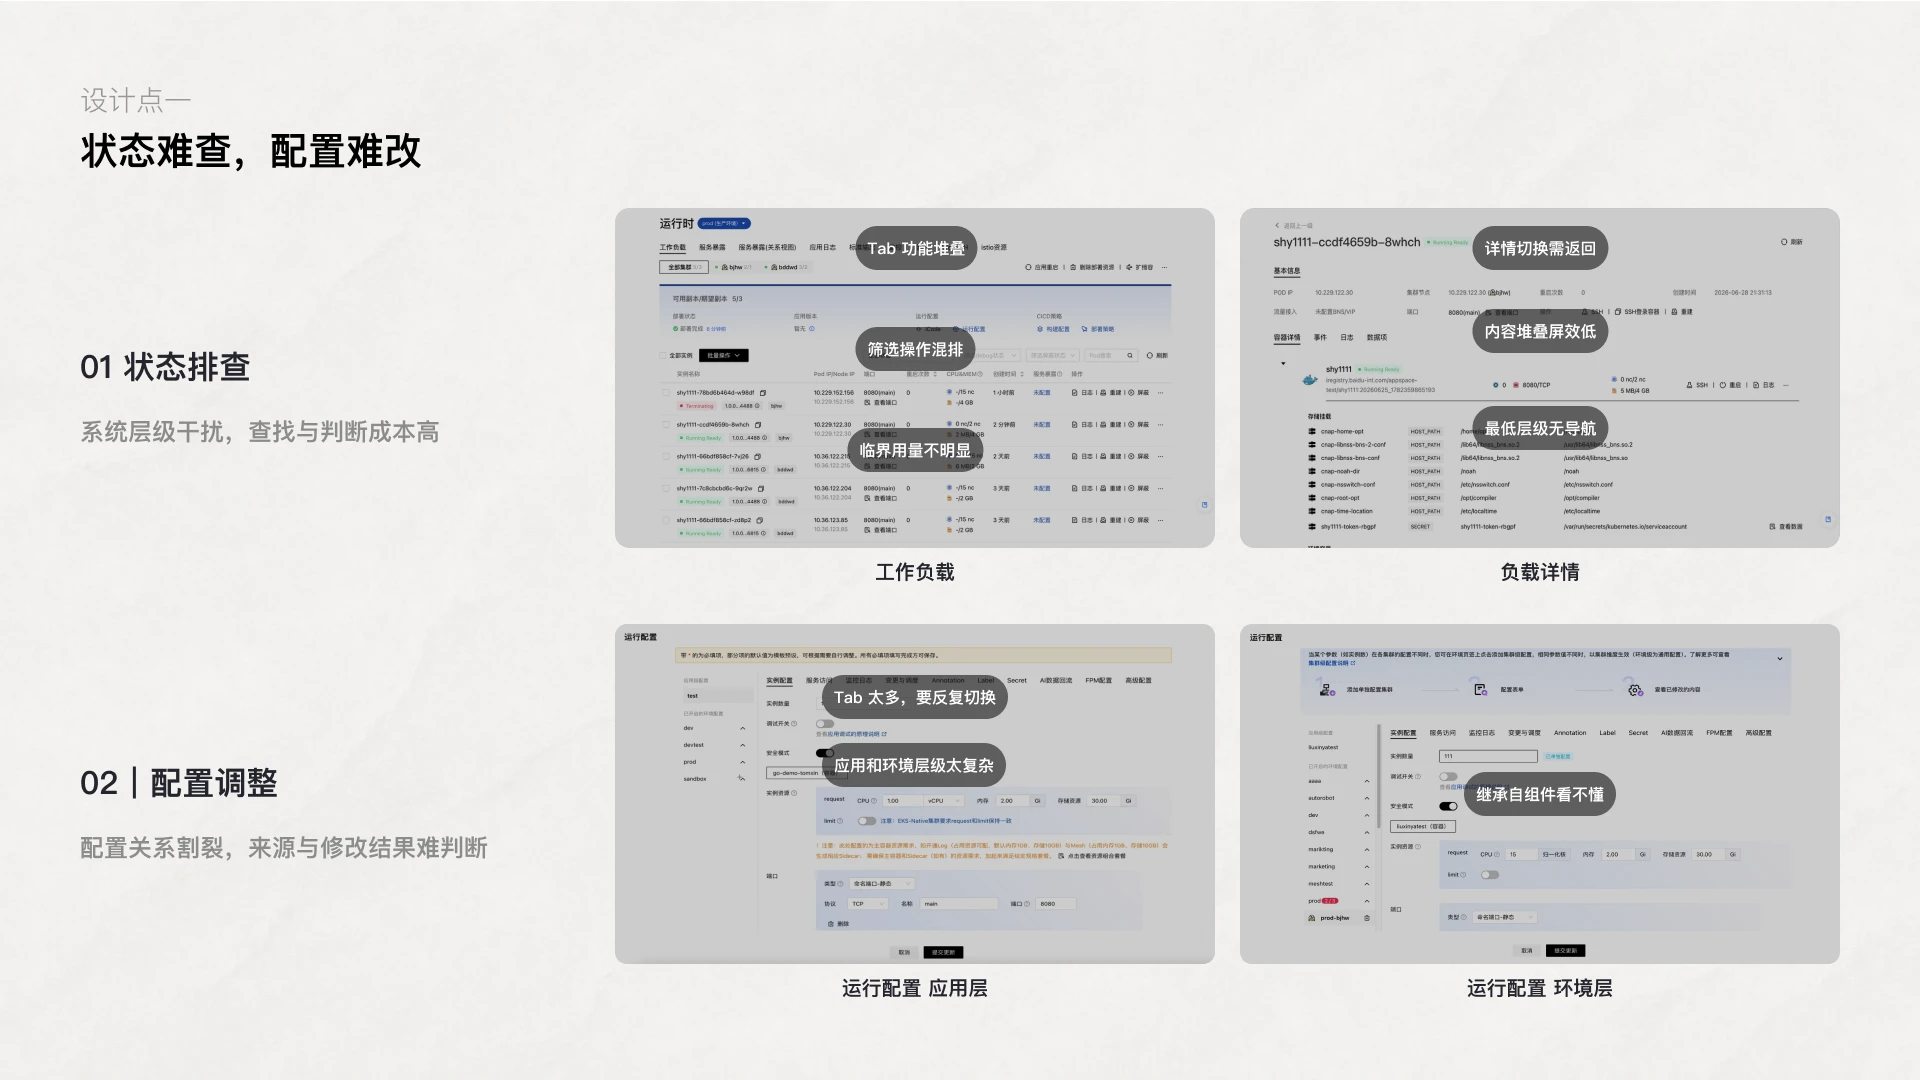
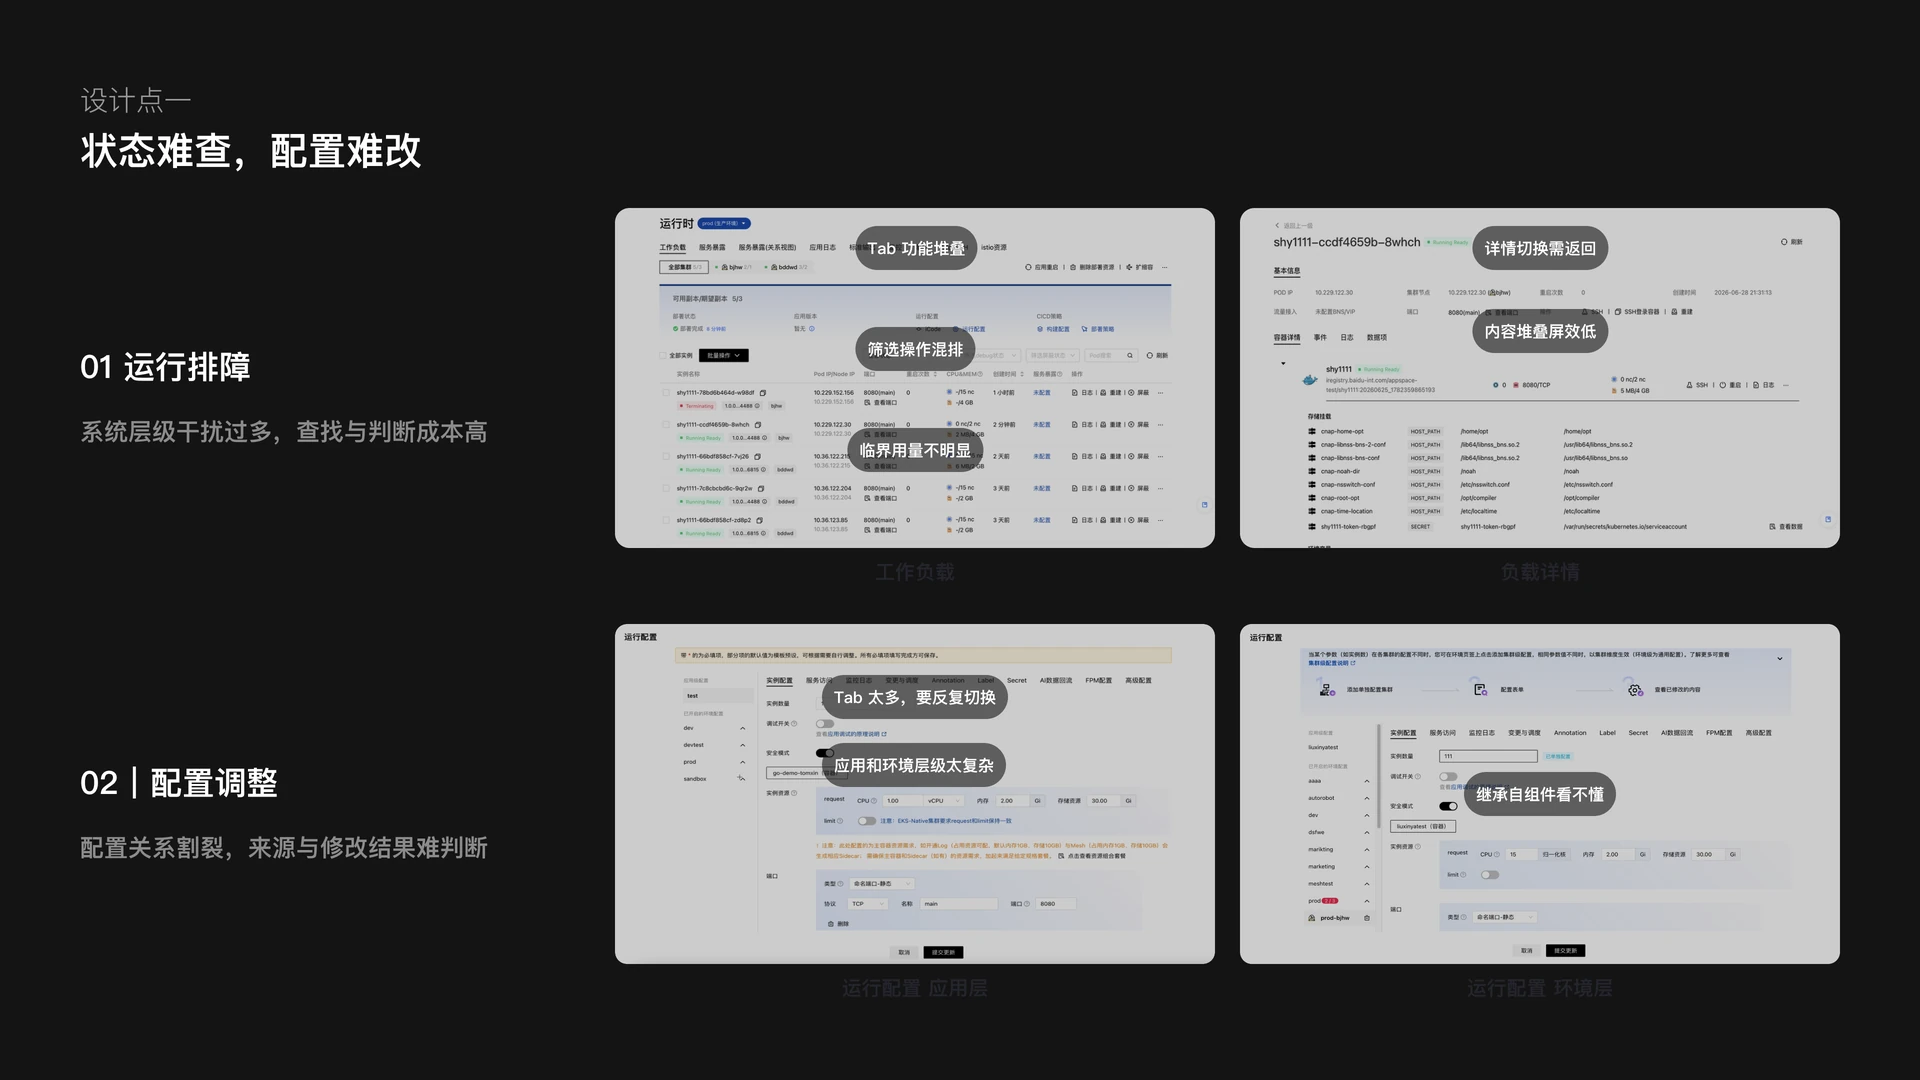
更新 CNAP 案例页面素材

diff --git a/pages/cnap-case.html b/pages/cnap-case.html
@@ -27,7 +27,7 @@
         <img data-src="../assets/cnap-case/page-04-update.webp?v=20260917-2" alt="CNAP 设计重构目标与策略" data-section-kicker="设计策略" data-section-title="先解决高频任务，再沉淀页面规则" width="1920" height="1080" loading="lazy" decoding="async" />
         <img data-src="../assets/cnap-case/page-05-update.webp?v=20260917-1" alt="CNAP 设计成果：信息各归其位，任务一眼可见" data-section-kicker="设计成果一" data-section-title="信息各归其位，任务一眼可见" width="1920" height="1080" loading="lazy" decoding="async" />
         <img data-src="../assets/cnap-case/page-06.webp?v=20260915-2" alt="CNAP 核心流程与信息架构优化" data-section-kicker="信息架构" data-section-title="重组部署与排障路径" width="1920" height="1080" loading="lazy" decoding="async" />
-        <img data-src="../assets/cnap-case/page-07.webp?v=20260914-1" alt="CNAP 设计点一：状态难查与配置难改" data-section-kicker="设计点一" data-section-title="状态难查，配置难改" width="1920" height="1080" loading="lazy" decoding="async" />
+        <img data-src="../assets/cnap-case/page-07.webp?v=20260920-1" alt="CNAP 设计点一：状态难查与配置难改" data-section-kicker="设计点一" data-section-title="状态难查，配置难改" width="1920" height="1080" loading="lazy" decoding="async" />
         <div class="case-slide-frame cnap-interactive-slide cnap-preview-slide" id="workload-preview">
           <img data-src="../assets/cnap-case/page-08-copy-update.webp?v=20260915-1" alt="CNAP 运行排障方案：一屏连续浏览" data-section-kicker="设计方案" data-section-title="减少查找与判断成本" width="1920" height="1080" loading="lazy" decoding="async" />
           <div class="cnap-preview-viewport cnap-workload-hotspot">
@@ -63,8 +63,8 @@
             <iframe title="方案二：配置覆盖与恢复演示" data-live-override src="../demos/workload-demo/override-preview.html?v=1" loading="lazy" width="1574" height="152"></iframe>
           </div>
         </div>
-        <img data-src="../assets/cnap-case/page-13-update.webp?v=20260915-1" alt="CNAP 交互设计：组件之外，继续打磨页面与流程" data-section-kicker="交互设计" data-section-title="组件之外，继续打磨页面与流程" width="1920" height="1080" loading="lazy" decoding="async" />
-        <img data-src="../assets/cnap-case/page-14-update.webp?v=20260915-1" alt="CNAP 设计点二：制定规范，快速同步更多页面" data-section-kicker="设计点二" data-section-title="制定规范，快速同步更多页面" width="1920" height="1080" loading="lazy" decoding="async" />
+        <img data-src="../assets/cnap-case/page-13-update.webp?v=20260920-4" alt="CNAP 交互设计：组件之外，继续打磨页面与流程" data-section-kicker="交互设计" data-section-title="组件之外，继续打磨页面与流程" width="1920" height="1080" loading="lazy" decoding="async" />
+        <img data-src="../assets/cnap-case/page-14-update.webp?v=20260920-3" alt="CNAP 设计点二：制定规范，快速同步更多页面" data-section-kicker="设计点二" data-section-title="制定规范，快速同步更多页面" width="1920" height="1080" loading="lazy" decoding="async" />
         <img data-src="../assets/cnap-case/page-15.webp" alt="CNAP 配置表单与帮助模式设计" data-section-kicker="设计沉淀" data-section-title="用帮助模式降低理解门槛" width="1920" height="1080" loading="lazy" decoding="async" />
         <img data-src="../assets/cnap-case/page-16-update.webp?v=20260915-1" alt="CNAP 规范复用：典型页成立，不代表适用于所有场景" data-section-kicker="规范复用" data-section-title="典型页成立，不代表适用于所有场景" width="1920" height="1080" loading="lazy" decoding="async" />
         <img data-src="../assets/cnap-case/page-17-update.webp?v=20260915-1" alt="CNAP 规范复用：区分编辑与预览，分别制定布局规则" data-section-kicker="规范复用" data-section-title="区分编辑与预览，分别制定布局规则" width="1920" height="1080" loading="lazy" decoding="async" />
